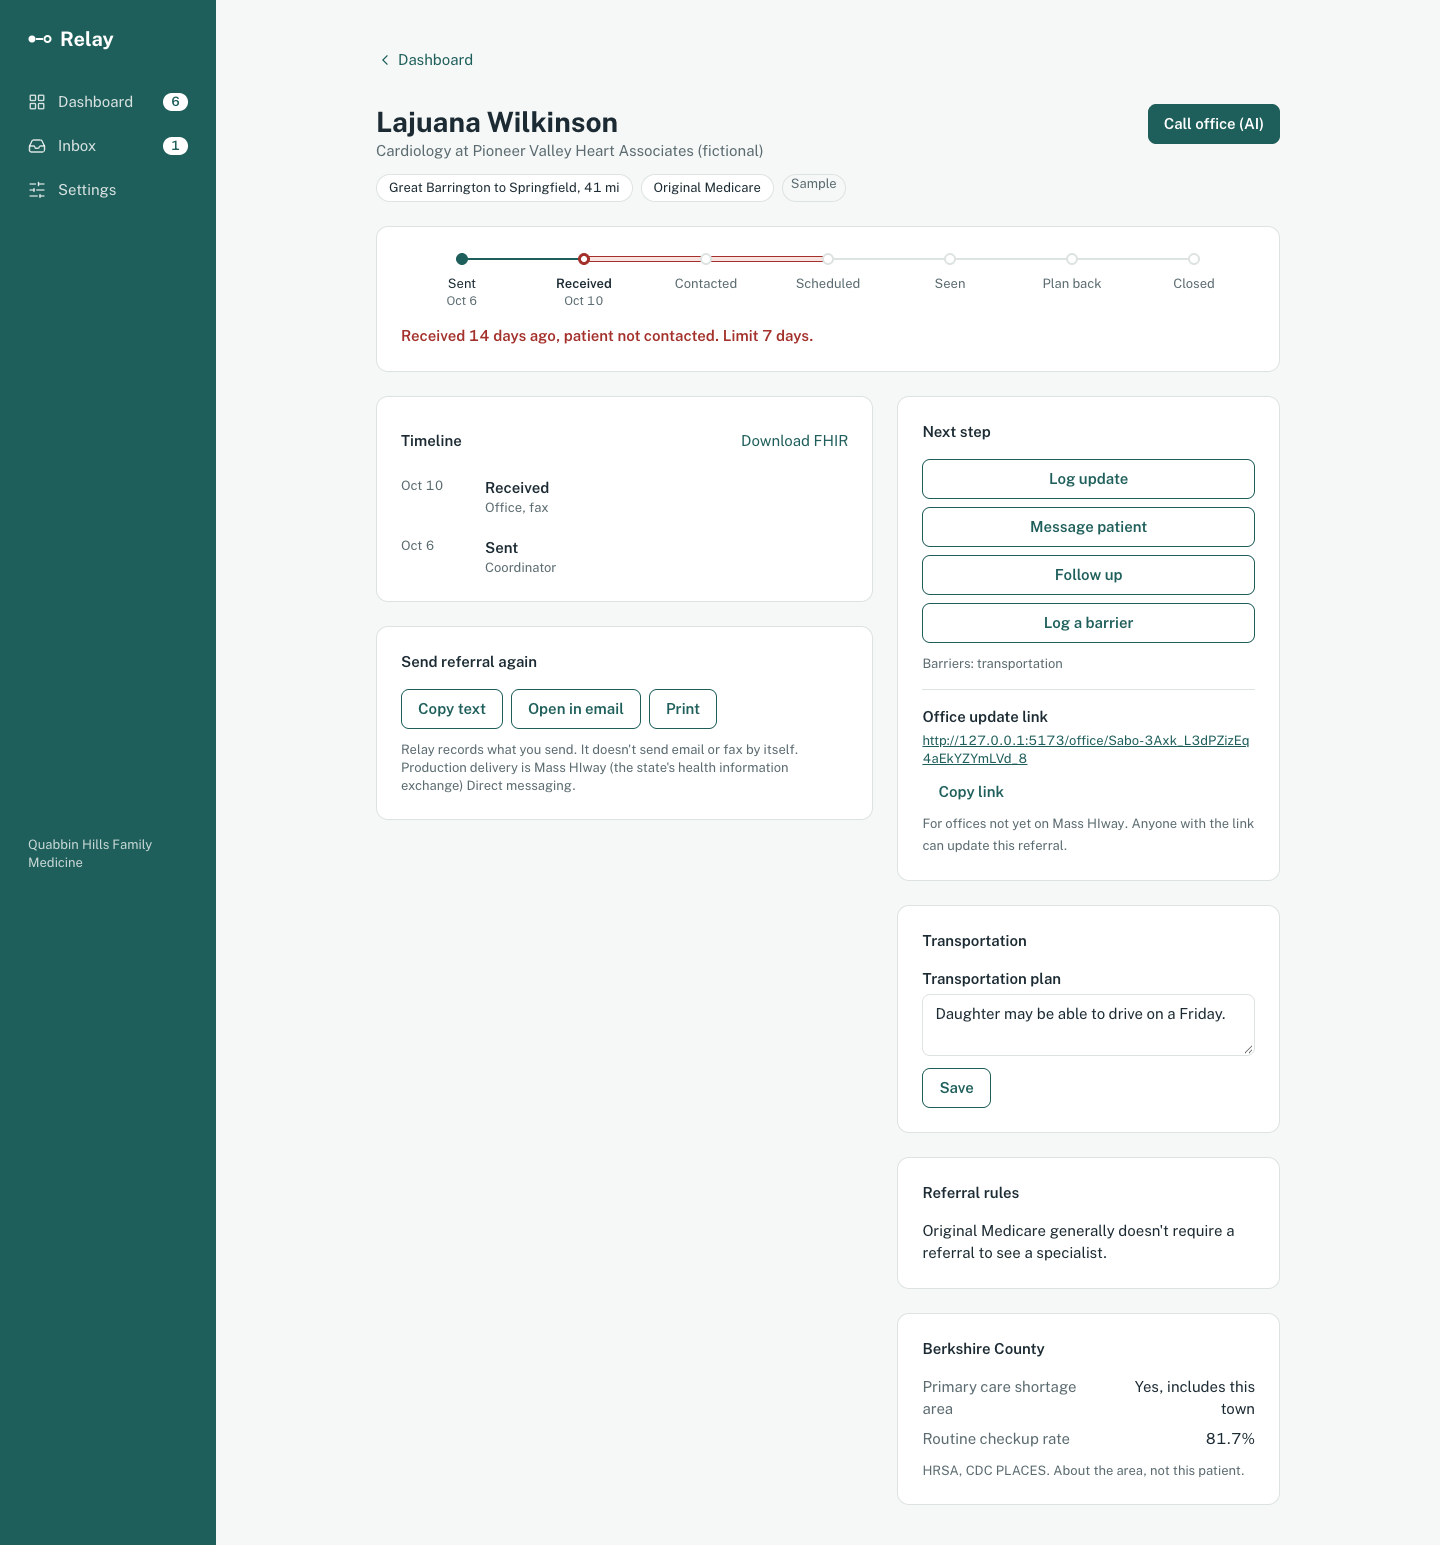
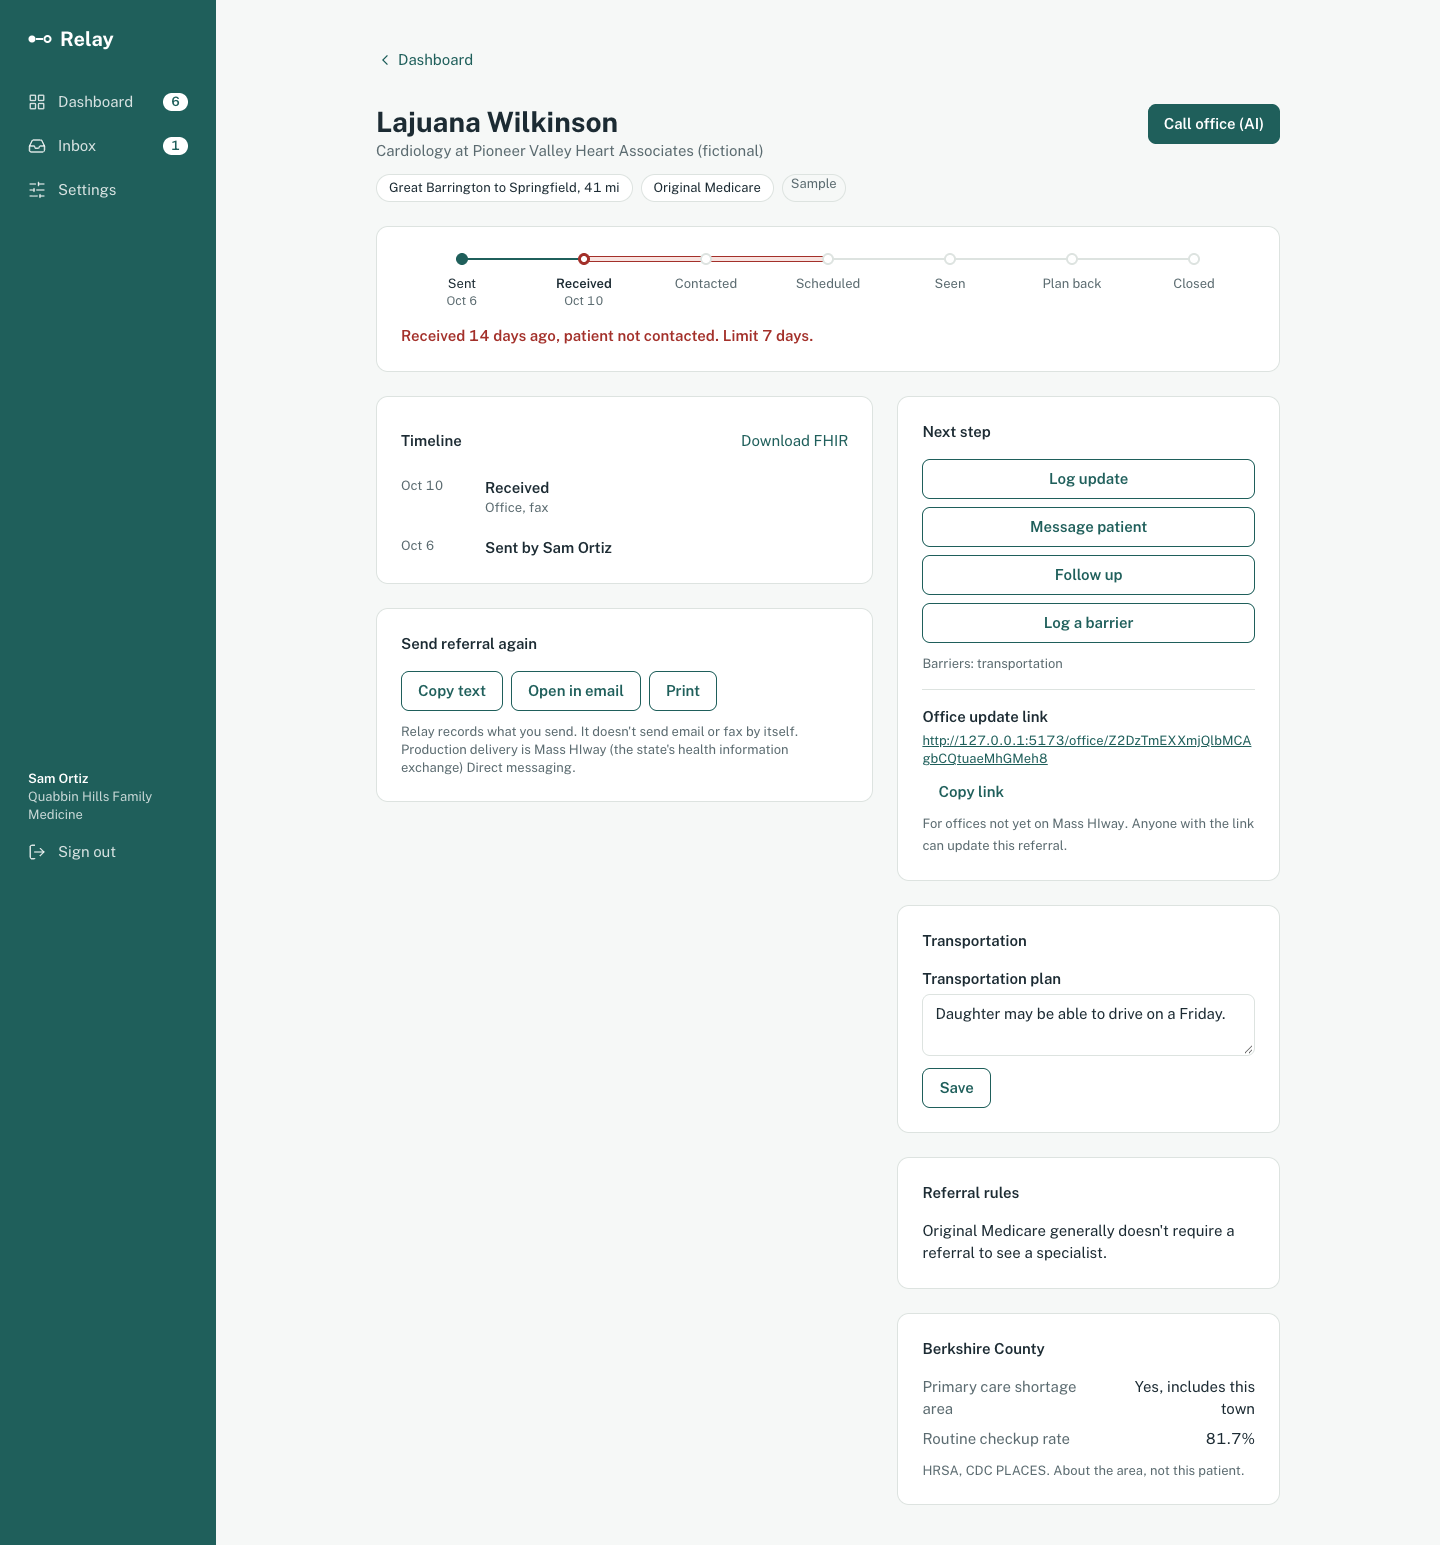
Polish (F): motion on load and status change, sign-out in rail and top bar, sign-in page; design.md and requirements updated; screenshots

diff --git a/frontend/src/components/RouteTrack.tsx b/frontend/src/components/RouteTrack.tsx
@@ -1,3 +1,4 @@
+import { useEffect, useState } from "react";
 import type { StepperItem, StuckFlag } from "../api";
 import { copy } from "../copy";
 import { FAILURE_RULES, shortDate } from "../format";
@@ -16,6 +17,18 @@ export function primaryFlag(flags: StuckFlag[]): StuckFlag | undefined {
   return flags.find((f) => STAGE_RULES.has(f.rule)) ?? flags[0];
 }
 
+/** Grows from 0 to `target` once after mount, and again whenever the status key changes
+ * (CSS transition, 300ms ease-out; reduced motion skips it). */
+function useGrow(target: number, key: string): number {
+  const [w, setW] = useState(0);
+  useEffect(() => {
+    setW(0);
+    const id = requestAnimationFrame(() => requestAnimationFrame(() => setW(target)));
+    return () => cancelAnimationFrame(id);
+  }, [target, key]);
+  return w;
+}
+
 export function RouteTrack({ steps, flags = [], labels = false }: { steps: StepperItem[]; flags?: StuckFlag[]; labels?: boolean }) {
   const n = steps.length;
   const current = steps.reduce((acc, s, i) => (s.at ? i : acc), -1);
@@ -25,7 +38,7 @@ export function RouteTrack({ steps, flags = [], labels = false }: { steps: Stepp
   const center = (i: number) => col * i + col / 2;
   const ratio = flag ? (flag.threshold > 0 ? Math.min(flag.days / flag.threshold, 2) : 1) : 0;
   const barStart = center(Math.max(current, 0));
-  const barWidth = Math.min(ratio * col, 100 - barStart);
+  const barWidth = useGrow(Math.min(ratio * col, 100 - barStart), flag ? `${flag.rule}:${current}` : "none");
   const tone = failure ? { ring: "border-rust", fill: "bg-rust-tint", edge: "border-rust", solid: "bg-rust" }
                        : { ring: "border-amber", fill: "bg-amber-tint", edge: "border-amber", solid: "bg-amber" };
   const doneLineEnd = current > 0 ? center(current) : center(0);

diff --git a/frontend/src/App.tsx b/frontend/src/App.tsx
@@ -45,14 +45,14 @@ function RailLink({ to, icon: Icon, label, count, end }: { to: string; icon: Luc
   );
 }
 
-function SignOut({ name }: { name?: string }) {
+function SignOut({ compact = false }: { compact?: boolean }) {
   const qc = useQueryClient();
   const out = useMutation({ mutationFn: api.signOut, onSuccess: () => { qc.clear(); window.location.assign("/sign-in"); } });
   return (
     <button type="button" onClick={() => out.mutate()} aria-label={copy.nav.signOut}
-      className="flex min-h-[40px] w-full items-center gap-3 rounded-control px-3 text-white/[.82] hover:bg-white/[.08]">
+      className={`flex min-h-[40px] items-center gap-3 rounded-control px-3 text-white/[.82] hover:bg-white/[.08] ${compact ? "" : "w-full"}`}>
       <LogOut size={18} strokeWidth={1.8} aria-hidden="true" />
-      <span className="max-[859px]:sr-only">{copy.nav.signOut}{name ? "" : ""}</span>
+      <span className={compact ? "sr-only" : ""}>{copy.nav.signOut}</span>
     </button>
   );
 }
@@ -76,6 +76,7 @@ function Shell() {
             <RailLink to="/" end icon={LayoutGrid} label={copy.nav.dashboard} count={d.data?.summary.stuck} />
             <RailLink to="/inbox" icon={Inbox} label={copy.nav.inbox} count={d.data?.summary.unread_plans} />
             <RailLink to="/settings" icon={SlidersHorizontal} label={copy.nav.settings} />
+            <span className="min-[860px]:hidden"><SignOut compact /></span>
           </nav>
         </div>
         <div className="mt-auto hidden px-4 pb-7 min-[860px]:block">
@@ -85,7 +86,6 @@ function Shell() {
           </div>
           <SignOut />
         </div>
-        <div className="px-4 pb-3 min-[860px]:hidden"><SignOut /></div>
         </div>
       </aside>
       <div className="relative min-w-0 flex-1 overflow-x-hidden bg-paper">

diff --git a/frontend/src/pages/Dashboard.tsx b/frontend/src/pages/Dashboard.tsx
@@ -42,7 +42,7 @@ function Row({ card, flags, fresh, onAction }: { card: Card; flags: StuckFlag[];
   return (
     <li
       data-testid={`row-${card.id}`}
-      className={`group relative grid grid-cols-1 items-center gap-4 border-b border-line px-6 py-5 last:border-b-0 hover:bg-paper/70 min-[860px]:grid-cols-[1fr_1.5fr_160px] ${fresh ? "highlight-in" : ""}`}
+      className={`group relative grid grid-cols-1 items-center gap-4 border-b border-line px-6 py-5 last:border-b-0 hover:bg-paper/70 min-[860px]:grid-cols-[1fr_1.5fr_160px] ${fresh ? "slide-in" : ""}`}
     >
       {/* The whole row opens referral detail; the action button sits above this link. */}
       <Link to={`/referrals/${card.id}`} aria-label={copy.dashboard.rowLabel(card.patient.name)} className="absolute inset-0 rounded-none focus-visible:outline-offset-[-2px]" />
@@ -95,7 +95,8 @@ function Section({ title, rows, fresh, onAction, testid }: {
 export default function Dashboard() {
   const q = useQuery({ queryKey: ["dashboard"], queryFn: api.dashboard, ...LIVE });
   const [drawer, setDrawer] = useState<DrawerState>(null);
-  // The one motion moment: a referral that newly crosses its limit slides in with a highlight.
+  // Motion: a referral that newly becomes stuck (between refreshes, e.g. after an office update)
+  // slides into its section. Nothing slides on the first load; bars grow on load instead.
   const seen = useRef<Set<string> | null>(null);
   const [fresh, setFresh] = useState<Set<string>>(new Set());
   useEffect(() => {

diff --git a/frontend/src/index.css b/frontend/src/index.css
@@ -9,15 +9,16 @@
 }
 
 @layer utilities {
-  .highlight-in { animation: highlight-in 1.6s ease-out; }
+  /* A referral that newly becomes stuck slides into its section. */
+  .slide-in { animation: slide-in 300ms ease-out; }
 }
 
-@keyframes highlight-in {
-  from { background-color: #FBEFD9; }
-  to { background-color: #FFFFFF; }
+@keyframes slide-in {
+  from { opacity: 0; transform: translateY(-8px); }
+  to { opacity: 1; transform: translateY(0); }
 }
 
 @media (prefers-reduced-motion: reduce) {
-  .highlight-in { animation: none; }
-  * { transition-duration: 0s !important; }
+  .slide-in { animation: none; }
+  * { transition-duration: 0s !important; animation-duration: 0s !important; }
 }

diff --git a/.kiro/specs/relay-referral-loop/requirements.md b/.kiro/specs/relay-referral-loop/requirements.md
@@ -40,9 +40,10 @@ ones first, so that nothing falls through.
    to scheduled. All are computed from the (synthetic) data and labeled as such.
 4. THE SYSTEM SHALL show a persistent banner: "Synthetic patients and referrals. Specialist responses
    and delivery are simulated."
-5. THE SYSTEM SHALL use the real date by default. Settings → "Demo mode" (off by default) adds a
-   forward offset (+1 day, +7 days, back to today); while on, a banner reads "Demo mode: simulated
-   date". Only `config.real_today()` reads the real clock.
+5. THE SYSTEM SHALL always use the real date; there is no demo or simulated clock. Only
+   `config.real_today()` / `config.real_now()` read the real clock. Sample data dates are day
+   offsets from load time (scripts/seed_referrals.py). Time-based stuck rules are verified in
+   pytest with an injected test clock. Settings offers "Load sample data" and "Remove sample data".
 6. THE SYSTEM SHALL persist data in SQLite, start empty ("No referrals yet", "Add a referral",
    "Load sample data"), and let the coordinator add a patient (name, Massachusetts town from
    towns.csv, coverage, optional date of birth). Sample records carry a "Sample" tag.
@@ -148,6 +149,18 @@ for likely barriers. It is never a judgment about the patient.
 7. Production delivery is Mass HIway Direct messaging; the office link is for offices not yet on
    Mass HIway. Sending offers Copy text, Open in email, and Print (fax-ready), each recorded as a
    Communication.
+
+## R14 — Sign-in (MUST)
+1. Users (name, email, role coordinator | clinician, practice) are stored in SQLite with argon2
+   password hashes; sessions use an HttpOnly, SameSite=Lax cookie; Sign out is in the rail.
+2. Coordinators land on the Dashboard; clinicians land on the Inbox, can view the Dashboard, and
+   only clinicians can Acknowledge and close. Office pages stay token-only, with no account.
+3. Every event, communication and closure records the acting user. The timeline shows the name
+   ("Sent by Sam Ortiz", "Closed by Dr. Avery Lin", "Office link", "AI call by Sam Ortiz"); FHIR
+   Provenance agents and the Composition attester reference that user.
+4. Sample accounts (Sam Ortiz, coordinator; Dr. Avery Lin, clinician) exist only while sample data
+   is loaded; the sign-in page offers them only then. The AI call endpoints require a signed-in
+   coordinator. Relay makes no HIPAA claim (README).
 
 ## R13 — AI call assistant (SHOULD)
 1. FOR referrals stuck at Sent or Received THE SYSTEM SHALL offer "Call office" with an AI voice

diff --git a/.kiro/steering/design.md b/.kiro/steering/design.md
@@ -33,9 +33,17 @@ ChevronLeft (back links), Stethoscope (dashboard background). Stroke 1.8 at 18px
 Solid hemlock. "Relay" wordmark in white, 20px bold, with a glyph: filled dot, short line, ring
 dot. Nav items: icon + label, white at 82% opacity; active item has a white 16% background and
 full white text; hover white 8%. White pill badges with hemlock text: Dashboard = referrals
-needing attention, Inbox = unread plans. Practice name at the bottom, 13px, white at 75%.
-No drawing in the rail. The rail stretches to the page height; its contents stay pinned.
-Under 860px wide it becomes a top bar with icons only.
+needing attention, Inbox = unread plans. At the bottom: the signed-in user's name (white, 600),
+the practice name (13px, white at 75%), and Sign out (LogOut icon). No drawing in the rail. The
+rail stretches to the page height; its contents stay pinned. Under 860px wide it becomes a top
+bar with icons only, Sign out included.
+
+## Sign-in page
+Split layout. Left half solid hemlock with the white wordmark and the large lucide Stethoscope in
+white at about 10% opacity, tilted -24deg. Right half white: "Sign in to Relay", email, password,
+a filled "Sign in" button, and, only while sample data is loaded, outlined "Sign in as
+coordinator (sample)" and "Sign in as clinician (sample)". A brand-new install shows "Set up
+Relay" (first coordinator account) and "Load sample data" instead. Under 860px, only the white half.
 
 ## Dashboard
 Headline "{n} referrals need attention" (28px bold), "{n} open" muted below, filled hemlock
@@ -88,7 +96,8 @@ template sections, then "Acknowledge and close".
 
 ## Writing, motion, quality
 Short sentences. Dates as "Oct 15". Empty states give direction ("No referrals need
-attention."). Errors say what happened and what to do. Motion only when Demo mode advances the
-clock: waiting bars grow (300ms ease-out) and a newly stuck row highlights. Respect reduced motion.
+attention."). Errors say what happened and what to do. There is no demo clock. Motion: waiting
+bars grow once on page load (300ms ease-out) and again when a referral's status changes; a
+referral that newly becomes stuck slides into its section. Reduced motion turns both off.
 Visible 2px hemlock focus rings, 40px minimum targets, WCAG AA contrast, works at 390px.
 Screenshots of every screen at 1440px and 390px live in docs/screenshots/.
